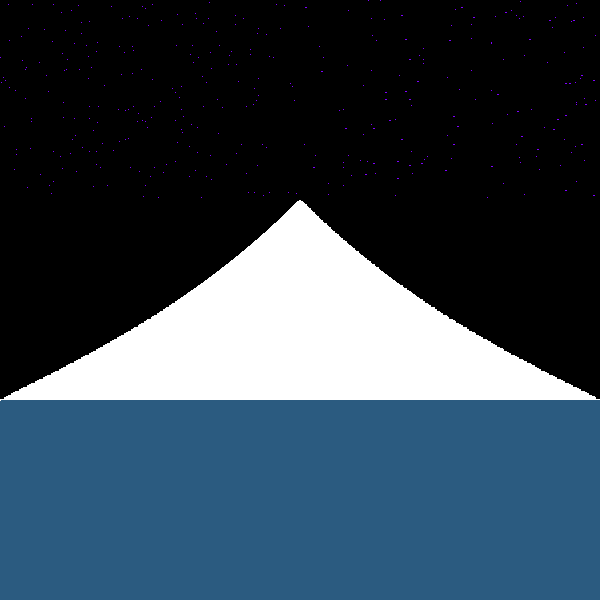
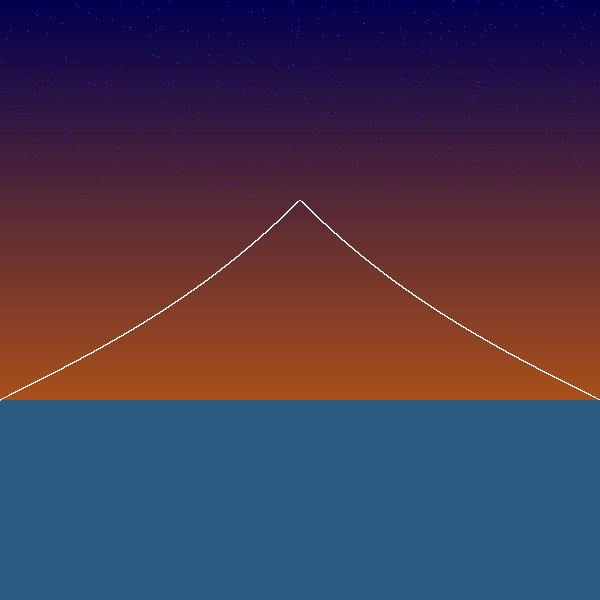
Change Background
- added sunrise background
- Fuji fill Error

diff --git a/NewYear.java b/NewYear.java
@@ -90,6 +90,10 @@ public class NewYear extends JPanel{
         g.setColor(ColorEnum.SKY.getColor());
         fillTriangle(g, new int[]{0, panelWidth, 0}, new int[]{0, 0, panelHeight});
         fillTriangle(g, new int[]{panelWidth, panelWidth, 0}, new int[]{panelHeight, 0, panelHeight});
+        for (int height = 0; height <= 400; height++) {
+            g.setColor(new Color(height*255/panelHeight, height*120/panelHeight, 80-height*80/panelHeight));
+            drawLine(g,0, height, panelWidth, height);
+        }
     }
     
     private void paintStar(Graphics g) {

diff --git a/ColorEnum.java b/ColorEnum.java
@@ -4,7 +4,9 @@ public enum ColorEnum {
         SKY("000000"),//BLACK
         WATER("2B5B80"),//Some Blue
         STAR("7F00FF"),//Some Violet
-        FUJI("FFFFFF");//WHITE
+        FUJI("FFFFFF"),//WHITE
+        DAWNSKY("000050"),
+        SUNRISE("E17800");
 
         private final Color color;
 
